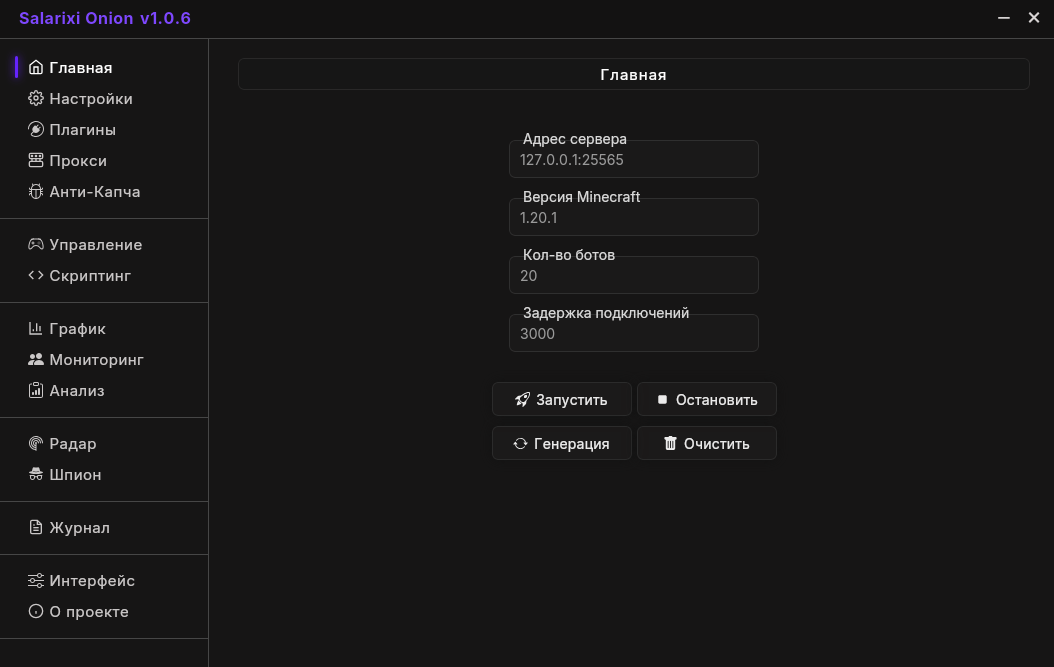
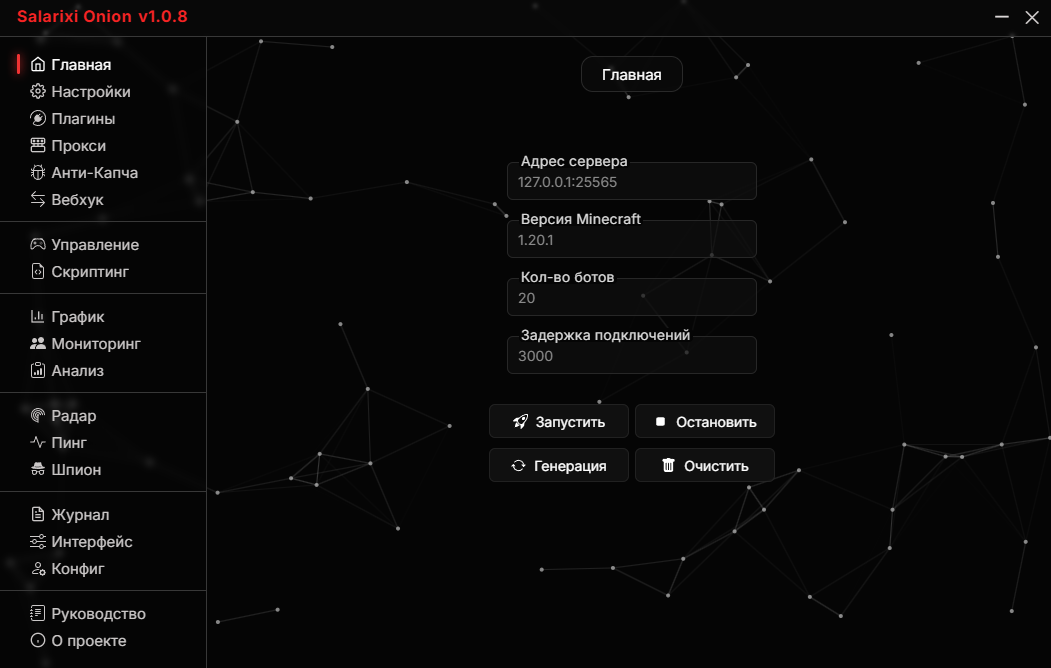
Images updated

diff --git a/README.md b/README.md
@@ -77,9 +77,9 @@ The client has several large sections, they will be presented below in the table
 
 ![](./images/settings.png)
 
-![](./images/proxy.png)
-
 ![](./images/plugins.png)
+
+![](./images/proxy.png)
 
 ![](./images/anti_captcha.png)
 
@@ -87,15 +87,13 @@ The client has several large sections, they will be presented below in the table
 
 ![](./images/monitoring.png)
 
-![](./images/monitoring_chat.png)
-
 ![](./images/radar.png)
 
-![](./images/radar_route.png)
-
-![](./images/journal.png)
+![](./images/ping.png)
 
 ![](./images/interface.png)
+
+![](./images/config.png)
 
 ## 💾 Installation
 
